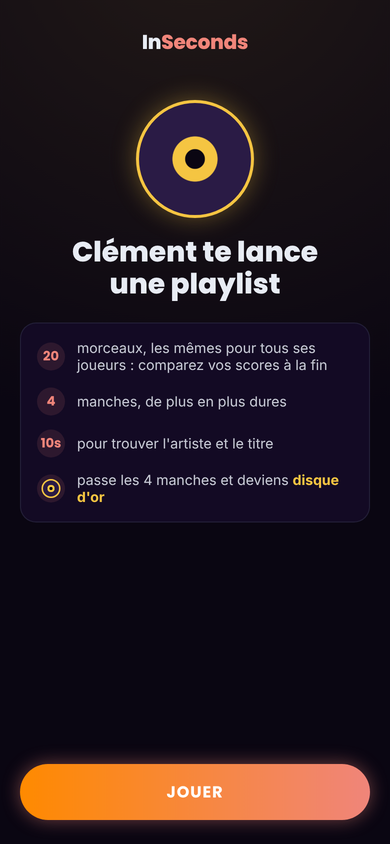
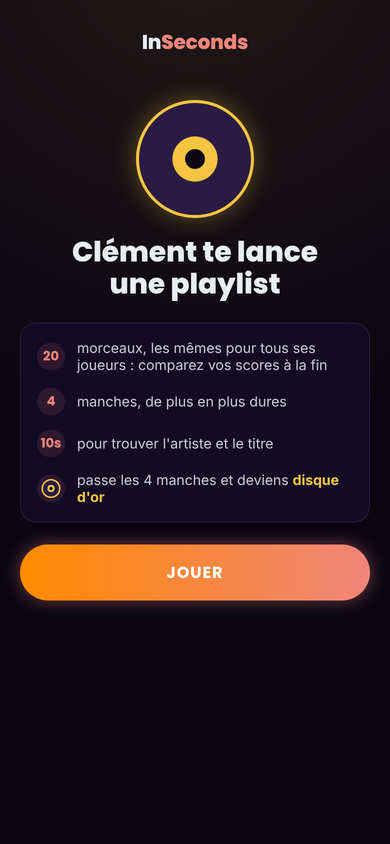
docs(runs): lien reçu, JOUER sous les règles

Changed region(s): [[0.0308, 0.6161, 0.9538, 0.7393], [0.0308, 0.8934, 0.9846, 0.9858]]

diff --git a/docs/runs/ecrans.md b/docs/runs/ecrans.md
@@ -122,6 +122,6 @@ Ce que voit un ami qui ouvre `inseconds.cc/runs/<code>` sans avoir encore joué 
 - le logo seul en haut (ni série, ni compte : l'écran doit marcher pour un invité tout neuf) ;
 - le disque d'or et le titre « Clément te lance une playlist » (pseudo de l'auteur, « Invité » à défaut), sans surtitre ;
 - un bloc de quatre règles courtes : « 20 morceaux, les mêmes pour tous ses joueurs : comparez vos scores à la fin » (la comparaison n'est visible qu'après avoir joué, réponse à `runs.comparison_locked`), « 4 manches, de plus en plus dures », « 10s pour trouver l'artiste et le titre », « passe les 4 manches et deviens **disque d'or** » (petit disque doré en pastille) ;
-- **« JOUER »**, qui crée l'invité si besoin et lance la partie (le son démarre à ce clic) ;
+- **« JOUER »** juste sous le bloc des règles, qui crée l'invité si besoin et lance la partie (le son démarre à ce clic) ;
 
 Partie déjà commencée sur ce lien : l'écran de reprise du Daily. Partie finie : la comparaison (§ 5).
